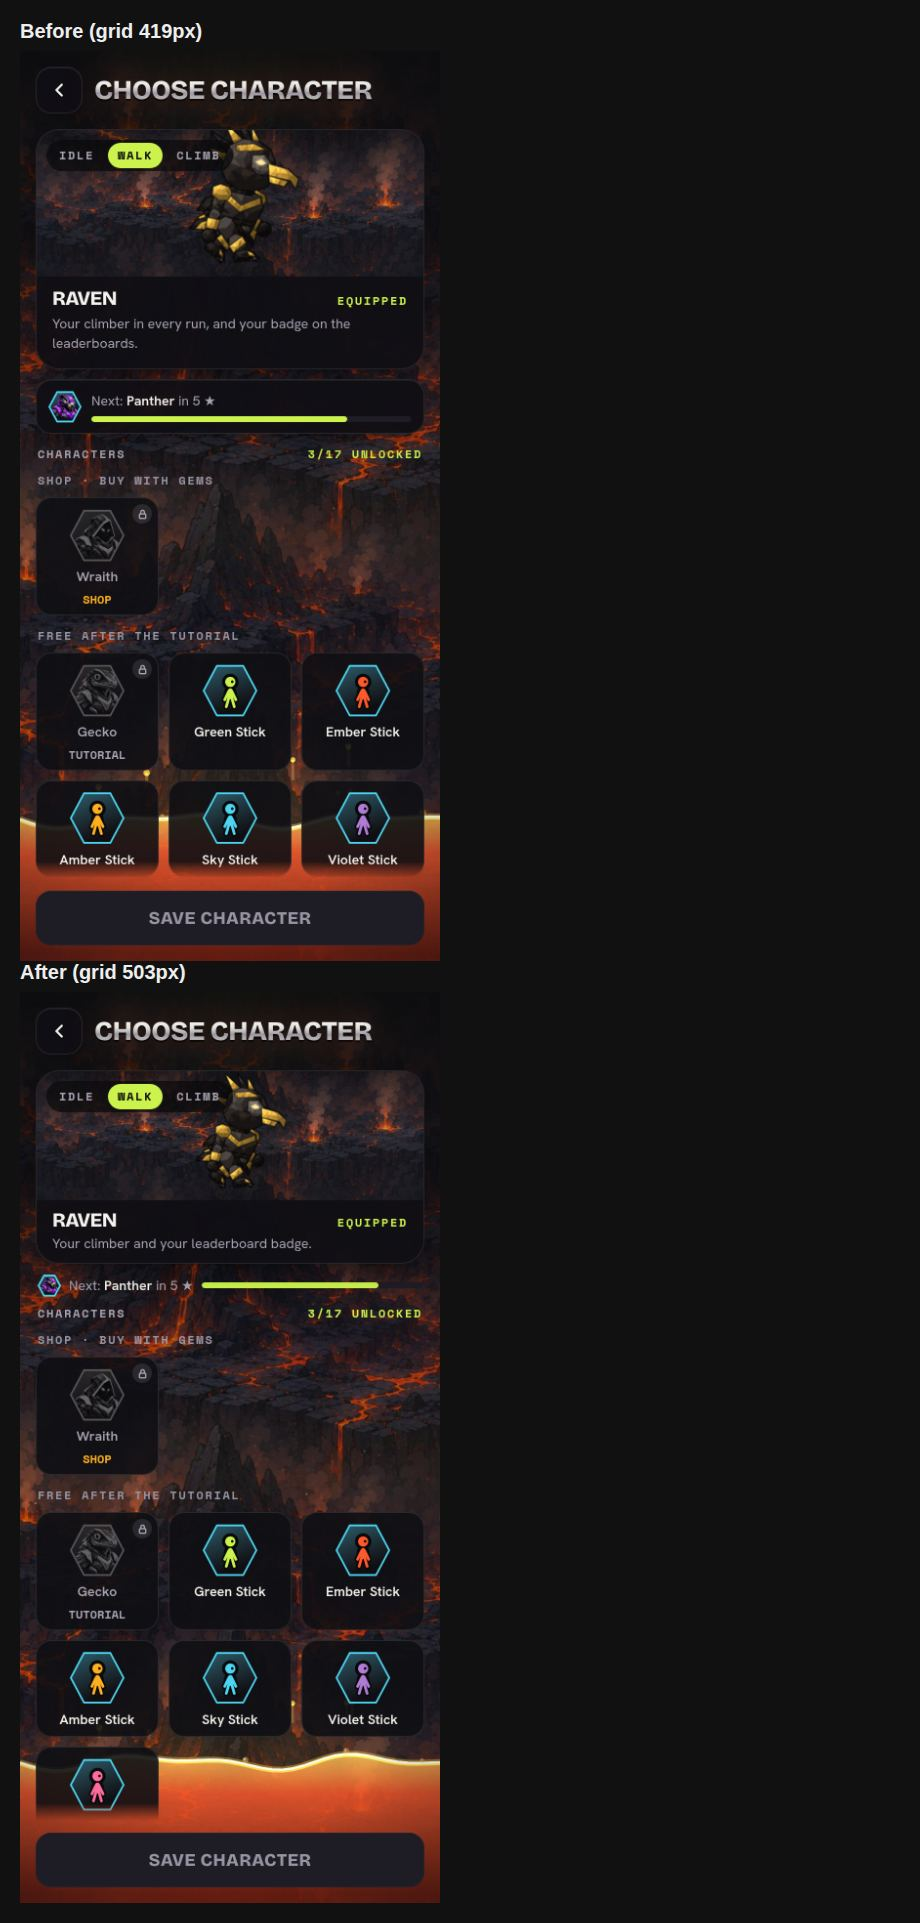
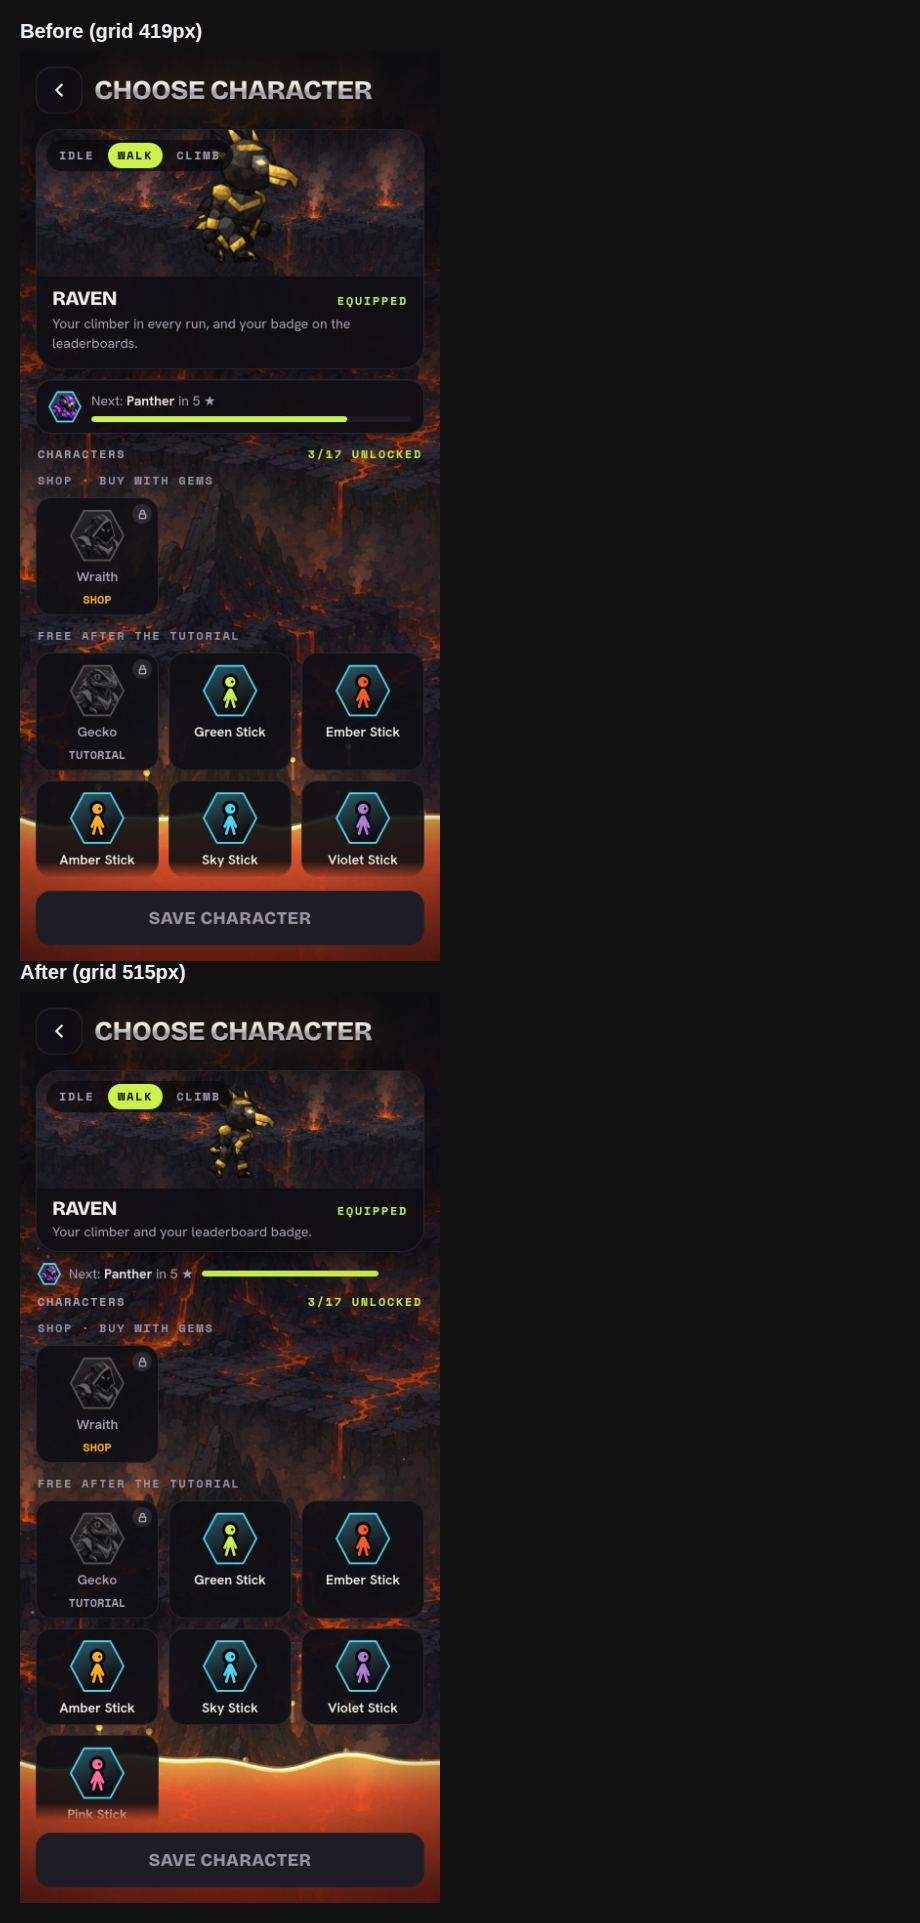
Shrink the Choose Character preview figure further (108px to 84px)
The stage drops from 132px to 120px with it, giving the grid another 12px.

Claude-Session: https://claude.ai/code/session_018NoWqhHqPr3AkHkCq5X7N8

Changed region(s): [[0.0304, 0.5616, 0.4565, 0.9672]]

diff --git a/app/mobile/src/screens/AvatarPickerScreen.tsx b/app/mobile/src/screens/AvatarPickerScreen.tsx
@@ -29,7 +29,7 @@ const COLUMNS = 3;
 const TILE_HEX = 56;
 const NEXT_HEX = 24;
 /** The preview's figure height: smaller than the default so it clears the pose switch. */
-const PREVIEW_FIGURE_PX = 108;
+const PREVIEW_FIGURE_PX = 84;
 const LOAD_FAILED_MESSAGE = "Couldn't load your profile. Check your connection and try again.";
 const SCROLL_FADE = "linear-gradient(to bottom, #000 calc(100% - 18px), transparent)";
 /**
@@ -429,7 +429,7 @@ export function AvatarPickerScreen() {
             className="glass overflow-hidden rounded-3xl border border-white/10"
           >
             <div
-              className="relative flex h-[132px] items-end justify-center bg-cover bg-bottom"
+              className="relative flex h-[120px] items-end justify-center bg-cover bg-bottom"
               style={{ backgroundImage: `linear-gradient(180deg, rgba(10,10,12,0.55), rgba(10,10,12,0.1) 45%, rgba(10,10,12,0.4)), url(${volcanoScene})` }}
             >
               <div role="group" aria-label="Preview pose" className="absolute left-2.5 top-2.5 flex gap-1 rounded-full bg-void/70 p-[3px]">
